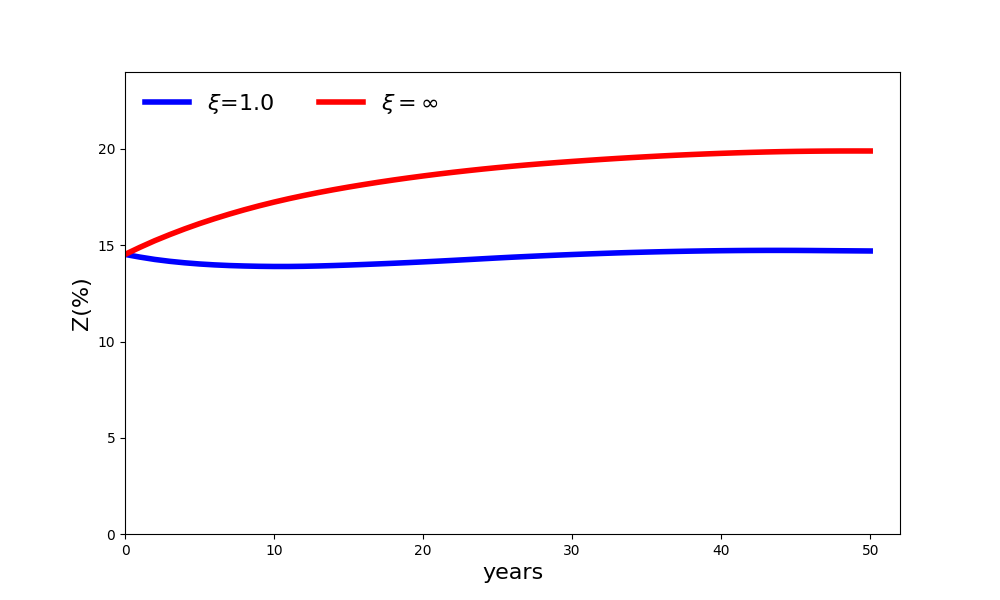
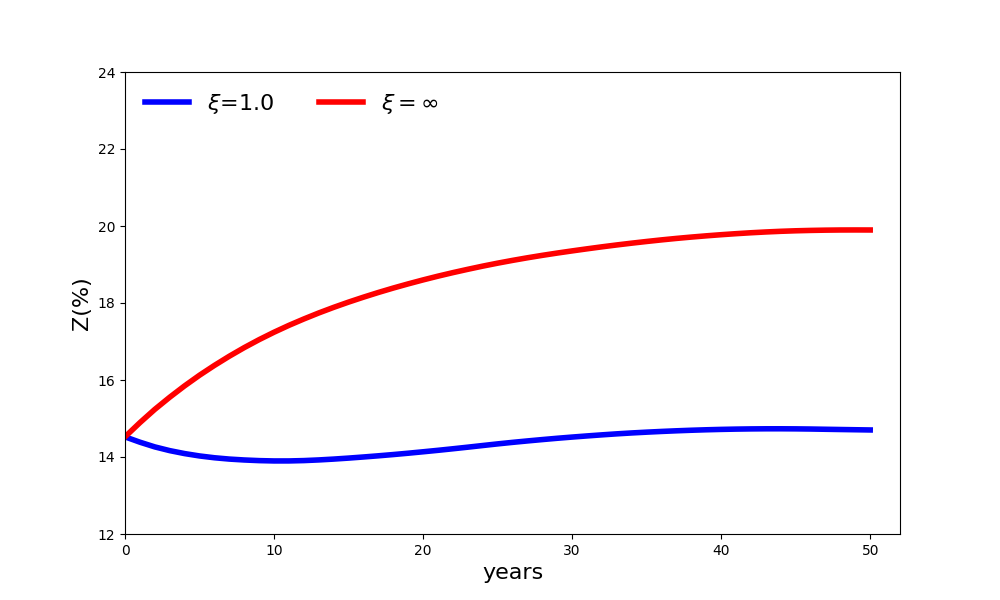
plottransfer updated

diff --git a/pysrc/analysis/figures.py b/pysrc/analysis/figures.py
@@ -461,26 +461,32 @@ def trajectory_diff(
         ) * 100
 
     time = list(range(0, len(result_zper_hmc)))
-    plt.figure(figsize=(10, 6))
+    fig, ax = plt.subplots(figsize=(10, 6))
 
-    plt.plot(time, result_zper_hmc, label=rf"$\xi$={xi}", linewidth=4, color="blue")
-    plt.plot(time, result_zper_det, label=r"$\xi=\infty$", linewidth=4, color="red")
-    plt.xlabel("years", fontsize=16)
-    plt.ylabel("Z(%)", fontsize=16)
-    plt.xlim(0, max(time) + 2)
+    ax.plot(time, result_zper_hmc, label=rf"$\xi$={xi}", linewidth=4, color="blue")
+    ax.plot(time, result_zper_det, label=r"$\xi=\infty$", linewidth=4, color="red")
+    ax.set_xlabel("years", fontsize=16)
+    ax.set_ylabel("Z(%)", fontsize=16)
+    ax.set_xlim(0, max(time) + 2)
     # if b==0:
     #     plt.ylim(12,24)
     #     if xi==0.5:
     #         plt.ylim(10, 26)
-    plt.ylim(0,24)
-    plt.legend(loc="upper left", ncol=5, frameon=False, fontsize=16)
+    ax.legend(loc="upper left", ncol=5, frameon=False, fontsize=16)
     output_path = (
         output_folder
         + f"/aggregate_percentage_Z_b{b}_pehmc_{pe_hmc}_pedet_{pe_det}_xi_{xi}.png"
     )
-    plt.savefig(output_path)
-    plt.savefig(output_path.replace(".png", "_same_ylim.png"))
-    plt.show()
+
+    is_figure11 = b == 0 and np.isclose(float(xi), 1.0) and np.isclose(pe_hmc, pe_det)
+    figure_ylim = (12, 24) if is_figure11 else (0, 24)
+
+    ax.set_ylim(*figure_ylim)
+    fig.savefig(output_path)
+
+    ax.set_ylim(0, 24)
+    fig.savefig(output_path.replace(".png", "_same_ylim.png"))
+    plt.close(fig)
 
     return
 
